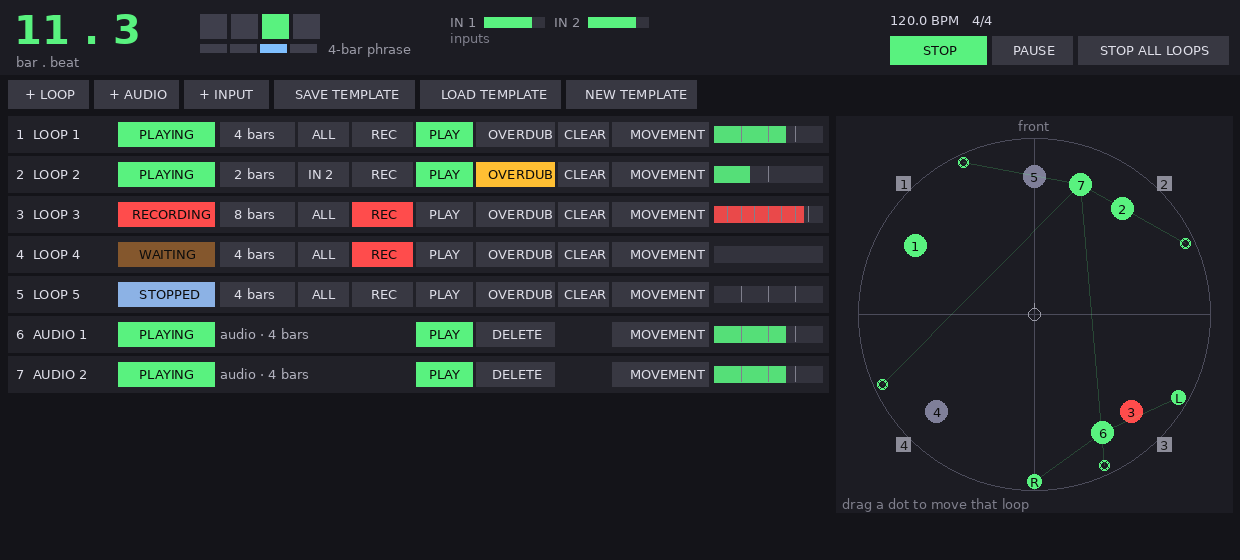
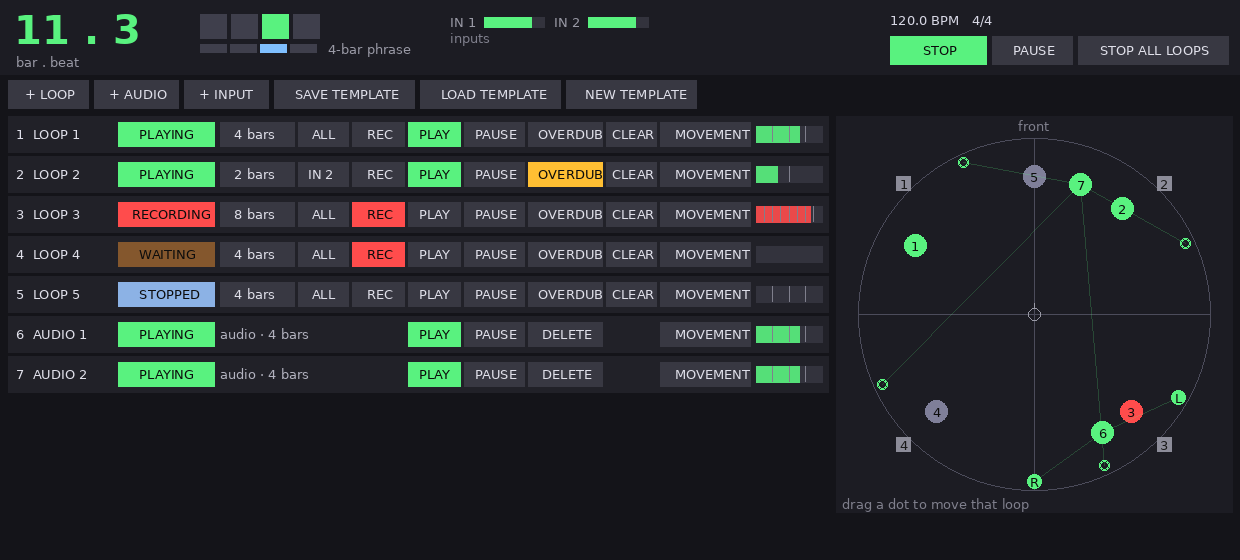
PLAY and PAUSE on every loop and audio row
Looper: new Pause button and PAUSED state. PAUSE silences the loop at
once; releasing it continues on the next bar from the bar of the loop
where it was paused. PLAY (after a stop or a pause) starts the loop from
its beginning on the next bar.

Panel: PAUSE on loop and audio rows. Audio PLAY starts the file from its
beginning on the next bar, PAUSE remembers the position and resumes
from that bar; the read position (take start offset) is only moved
while the track is silent. Master STOP puts every audio file back at
its beginning. Row buttons re-laid out to fit.

Claude-Session: https://claude.ai/code/session_01HZpQ1jnYDfcf75rDd3gwxR

Changed region(s): [[0.2758, 0.3643, 0.6742, 0.5464], [0.2758, 0.2125, 0.6435, 0.3339], [0.3065, 0.5768, 0.6435, 0.6982]]

diff --git a/tests/test_scripts.py b/tests/test_scripts.py
@@ -142,7 +142,7 @@ mouse(dx, dy, 1); frame(); mouse(cx + 100, cy, 1); frame(); mouse(cx + 100, cy, 
 check("panel: dragging loop 1 in the room sets its azimuth (+90 = right)", param(2, 2, "Azimuth") == 90)
 
 # movement editor of loop 1
-click(BX + 256 + 10, row_y(1, n))
+click(BX + 308 + 10, row_y(1, n))
 lw = W - room - 24
 colw = (lw - 40) // 2
 c1, c2 = 8 + 10, 8 + 30 + colw
@@ -204,6 +204,38 @@ click(BX + 70 + 10, row_y(14, n))                # PLAY on the audio row (quanti
 check("audio row: PLAY waits for the next bar", lua.eval("MOCK.T[%d].vals.B_MUTE" % a1) == 1)
 lua.execute("MOCK_POS = MOCK_POS + 2.0"); frame()   # next bar (2 s per bar at 120 BPM)
 check("audio row: ... and unmutes on the next bar", lua.eval("MOCK.T[%d].vals.B_MUTE" % a1) == 0)
+# loop PAUSE button
+click(BX + 112 + 10, row_y(1, n))
+check("loop row: PAUSE presses the looper's Pause", param(tr_index("LOOP 1"), 1, "Pause") == 1)
+click(BX + 112 + 10, row_y(1, n))
+check("loop row: PAUSE again releases it (the loop continues on the next bar)", param(tr_index("LOOP 1"), 1, "Pause") == 0)
+# audio PAUSE / RESUME (AUDIO 1: 4 bars = 8 s at 120 BPM, playing)
+lua.execute("E4LT = dofile([[%s]])" % os.path.join(SCRIPTS, "e4l_lib.lua").replace("\\", "/"))
+apos = lua.eval("function(i, t) return E4LT.audio_pos(MOCK.T[i], t) end")
+lua.execute("MOCK_POS = 15.0"); frame()          # the file started at 12 s (PLAY above): 3.0 s in
+click(BX + 112 + 10, row_y(14, n))                # PAUSE there (its bar 2)
+check("audio row: PAUSE silences it at once and remembers where it was",
+      lua.eval("MOCK.T[%d].vals.B_MUTE" % a1) == 1 and abs(float(lua.eval("MOCK.T[%d].ext['P_EXT:E4L_pause']" % a1)) - 3.0) < 1e-6)
+lua.execute("MOCK_POS = 15.5"); frame()
+click(BX + 112 + 10, row_y(14, n))                # PAUSE again: continue on the next bar (16 s)
+check("audio row: PAUSE again -> on the next bar (16 s) the file continues from its bar 2 (2.0 s)",
+      abs(apos(a1, 16.0) - 2.0) < 1e-6 and lua.eval("MOCK.T[%d].vals.B_MUTE" % a1) == 1)
+lua.execute("MOCK_POS = 16.1"); frame()
+check("audio row: ... it comes back in on that bar", lua.eval("MOCK.T[%d].vals.B_MUTE" % a1) == 0
+      and lua.eval("MOCK.T[%d].ext['P_EXT:E4L_pause']" % a1) == "")
+# audio PLAY: stop on the next bar, then PLAY again starts the file from its beginning
+click(BX + 56 + 10, row_y(14, n))
+lua.execute("MOCK_POS = 18.1"); frame()
+lua.execute("MOCK_POS = 19.0"); frame()
+click(BX + 56 + 10, row_y(14, n))
+check("audio row: PLAY after a stop starts the file from its beginning on the next bar (20 s)",
+      lua.eval("MOCK.T[%d].vals.B_MUTE" % a1) == 1 and abs(apos(a1, 20.0)) < 1e-6)
+lua.execute("MOCK_POS = 20.1"); frame()
+check("audio row: ... and comes in on that bar", lua.eval("MOCK.T[%d].vals.B_MUTE" % a1) == 0)
+lua.execute("MOCK_KEY = 32"); frame()
+check("master STOP: back to bar 1 with every audio file at its beginning",
+      lua.eval("MOCK_PLAY") == 0 and abs(apos(a1, 0.0)) < 1e-6)
+lua.execute("MOCK_KEY = 32"); frame()
 check("+ AUDIO builds the item directly (no InsertMedia, which can stop the transport)",
       lua.eval("MOCK_INSERTMEDIA_USED") is False and lua.eval("MOCK.T[%d].items[1].file" % a1) == "/sounds/pad.wav")
 # something stops the transport while the file dialog is open -> the panel restarts it
@@ -252,9 +284,9 @@ check("8-channel file -> Multi-Panner, 8 inputs in a circle, the others off",
 rows = [x for x in name_list() if x.startswith("LOOP ") or x.startswith("AUDIO ")]
 nrows = len(rows)
 i5 = rows.index("AUDIO 5") + 1
-click(BX + 124 + 10, row_y(i5, nrows))
+click(BX + 176 + 10, row_y(i5, nrows))
 check("audio row: first click on DELETE only asks (SURE?)", "AUDIO 5" in name_list())
-click(BX + 124 + 10, row_y(i5, nrows))
+click(BX + 176 + 10, row_y(i5, nrows))
 check("audio row: second click on DELETE deletes the track",
       "AUDIO 5" not in name_list() and "AUDIO 4" in name_list() and "AUDIO 6" in name_list())
 frame()

diff --git a/docs/build_guide.py b/docs/build_guide.py
@@ -634,9 +634,9 @@ def build(path):
         "continues exactly where it was.",
         "<b>Toolbar:</b> <b>+ LOOP</b>, <b>+ AUDIO</b>, <b>+ INPUT</b>, <b>SAVE TEMPLATE</b>, "
         "<b>LOAD TEMPLATE</b>, <b>NEW TEMPLATE</b> (see below).",
-        "<b>One row per loop:</b> state (EMPTY, WAITING, RECORDING, PLAYING, STOPPED; it blinks while "
-        "waiting for the bar), length, input (<b>ALL</b> or <b>IN n</b>), <b>REC</b>, <b>PLAY</b>, "
-        "<b>OVERDUB</b>, <b>CLEAR</b>, <b>MOVEMENT</b> and the position inside the loop.",
+        "<b>One row per loop:</b> state (EMPTY, WAITING, RECORDING, PLAYING, STOPPED, PAUSED; it blinks "
+        "while waiting for the bar), length, input (<b>ALL</b> or <b>IN n</b>), <b>REC</b>, <b>PLAY</b>, "
+        "<b>PAUSE</b>, <b>OVERDUB</b>, <b>CLEAR</b>, <b>MOVEMENT</b> and the position inside the loop.",
         "<b>The room seen from above:</b> the 4 numbered speakers and one dot per loop (green "
         "playing, red recording), moving live with the animations. <b>Drag a dot</b> to move that loop.",
         "<b>Keys:</b> <b>Space</b> = play/stop · <b>1-9</b> = record on loop 1-9 · <b>0</b> = stop all "
@@ -647,7 +647,9 @@ def build(path):
         ["Loop button", "What it does"],
         ["<b>REC</b>", "Records on the next bar. On a loop that already has audio it records a new "
          "one; the old one keeps playing until the new recording starts."],
-        ["<b>PLAY</b>", "Starts or stops the loop on the next bar, always in phase with the project."],
+        ["<b>PLAY</b>", "Starts the loop from its beginning on the next bar, or stops it on the next bar."],
+        ["<b>PAUSE</b>", "Silences the loop at once. Press it again: the loop continues on the next bar, "
+                         "from the bar where it was paused. PLAY while paused starts it from the beginning."],
         ["<b>OVERDUB</b>", "While on, what you play is added on top of the loop."],
         ["<b>CLEAR</b>", "Erases the loop."],
         ["<b>ALL / IN n</b>", "Which interface input the loop records: <b>ALL</b> (every input, the "
@@ -659,7 +661,9 @@ def build(path):
         "<b>+ AUDIO</b>: choose a file (wav, aif, mp3…). A new <b>AUDIO n</b> track is created, "
         "spatialised like a loop. The file starts at bar 1 and repeats; if it lasts almost a whole "
         "number of bars it is fitted to the tempo without changing its pitch. It starts "
-        "<b>MUTED</b>: press <b>PLAY</b> and it comes in on the next bar (same to take it out). It "
+        "<b>STOPPED</b>: press <b>PLAY</b> and it comes in from its beginning on the next bar (same to take it "
+        "out). <b>PAUSE</b> works as on the loops: silent at once, then it continues from the bar where it "
+        "was paused. It "
         "has its own <b>MOVEMENT</b> button. You can also drag files from the Finder onto the panel.",
         "The effect follows the channels of the file: <b>mono</b> = one point; <b>stereo</b> = two "
         "points, L and R on speakers 1 and 2; <b>quad</b> = four points, each channel on its own "

diff --git a/tests/test_e4l.py b/tests/test_e4l.py
@@ -193,6 +193,25 @@ check("looper: after STOP, PLAY (here from bar 2) starts the loop from its begin
 o = run(LP, ramp, *EXACT, "s1=1", "s2=1", "ps@300032=2", "ps@340000=1")
 check("looper: after PAUSE, PLAY continues where it was",
       np.allclose(o[343000:380000, 0], ramp[111000:148000, 0], atol=1e-4))
+# per-loop PAUSE (2-bar loop playing from bar 3 = sample 192000): paused at 250000 (inside
+# loop bar 1), PAUSE off at 300000 -> continues at the next bar (384000) from loop bar 1
+o = run(LP, ramp, *EXACT, "s1=1", "s2=1", "s16@250112=1", "s16@300032=0")
+check("looper: PAUSE silences the loop at once",
+      np.abs(o[250500:384000]).max() == 0)
+check("looper: PAUSE off continues on the next bar from the bar where it was paused",
+      np.allclose(o[384000 + 1000:384000 + 90000, 0], ramp[1000:90000, 0]))
+ramp14 = np.stack([np.arange(14 * SR) * 1e-6, -np.arange(14 * SR) * 1e-6], 1)
+o = run(LP, ramp14, *EXACT, "s1=1", "s2=1", "s16@300032=1", "s16@400128=0")
+check("looper: paused in loop bar 2 -> continues from loop bar 2",
+      np.allclose(o[480000 + 1000:480000 + 90000, 0], ramp14[96000 + 1000:96000 + 90000, 0]))
+o = run(LP, ramp14, *EXACT, "s1=1", "s2=1", "s16@300032=1", "s3@400128=1")
+check("looper: PLAY while paused starts the loop from its beginning on the next bar",
+      np.allclose(o[480000 + 1000:480000 + 90000, 0], ramp14[1000:90000, 0]))
+# 2-bar loop recorded in bars 2-3, playing from bar 4; its STOP at bar 5, PLAY again at bar 6:
+# in phase it would play its 2nd bar there, from the beginning it plays its 1st
+o = run(LP, ramp14, *EXACT, "s1=1", "s2@30000=1", "s3@300032=0", "s3@400128=1")
+check("looper: PLAY after its STOP starts it from its beginning",
+      np.allclose(o[480000 + 1000:480000 + 90000, 0], ramp14[96000 + 1000:96000 + 90000, 0]))
 o = run(LP, ramp, *EXACT, "s1=0", "s2=1", "s4@192000=1", "s4@288000=0")
 check("looper: overdub adds a layer", np.allclose(o[288000 + j, 0], ramp[j, 0] + ramp[192000 + j, 0], atol=1e-5))
 o = run(LP, ramp, *EXACT, "s1=0", "s2=1", "s2@200000=1")

diff --git a/tools/render_panel_preview.py b/tools/render_panel_preview.py
@@ -31,7 +31,7 @@ q.fx[1].p["-Current Azimuth"] = 20; q.fx[1].p["-Current Spread"] = 90
 """ % os.path.join(ROOT, "Scripts", "E4L", "e4l_lib.lua"))
 lua.execute('''
 local T = MOCK.T
-local ST, BARS, LQN = "-Status (0 empty 1 armed 2 rec 3 play 4 stop)", "-Loop Bars", "-Loop Length (QN)"
+local ST, BARS, LQN = "-Status (0 empty 1 armed 2 rec 3 play 4 stop 5 pause)", "-Loop Bars", "-Loop Length (QN)"
 local function L(i) return T[i+2].fx[1].p end
 local function P(i) return T[i+2].fx[2].p end
 L(1)[ST]=3; L(1)[BARS]=4; L(1)[LQN]=16; L(1)["Play"]=1; L(1)["Length (bars)"]=2
@@ -90,7 +90,7 @@ def render(out_name):
 
 render("live_panel_preview.png")
 # open the movement editor of loop 1 (click on its MOVIMIENTO button)
-lua.execute("gfx.mouse_x = 8 + 344 + 266; gfx.mouse_y = 116 + 15; gfx.mouse_cap = 1")
+lua.execute("gfx.mouse_x = 8 + 344 + 320; gfx.mouse_y = 116 + 15; gfx.mouse_cap = 1")
 lua.execute("local f = MOCK_DEFER; MOCK_DEFER = nil; f()")
 lua.execute("gfx.mouse_cap = 0")
 render("live_panel_editor.png")

diff --git a/README.md b/README.md
@@ -176,10 +176,13 @@ opening any plug-in.
     positions, movements, tempo) in `E4L_Templates` inside the resource folder, to move from one
     piece to the next.
   - **NEW TEMPLATE** – a new live project from scratch.
-- **One row per loop:** state (empty, waiting, recording, playing, stopped), length (1-32 bars),
-  input (**ALL** / **IN n**), **REC**, **PLAY**, **OVERDUB**, **CLEAR**, **MOVEMENT** (movement
-  editor) and the position inside the loop. Record, play and stop are
-  quantised to the next bar.
+- **One row per loop:** state (empty, waiting, recording, playing, stopped, paused), length
+  (1-32 bars), input (**ALL** / **IN n**), **REC**, **PLAY**, **PAUSE**, **OVERDUB**, **CLEAR**,
+  **MOVEMENT** (movement editor) and the position inside the loop. Record, play and stop are
+  quantised to the next bar. **PLAY** starts the loop from its beginning; **PAUSE** silences it at
+  once and, pressed again, continues it on the next bar from the bar where it was paused.
+  Audio rows have the same **PLAY** / **PAUSE** (the file is moved only while it is silent) and
+  **DELETE**. The movement (LFOs) freezes while REAPER is paused and continues from there.
 - **Room view**, seen from above: the four speakers and one dot per loop, moving live with its
   animations. Drag a dot to move that loop.
 - **Keys:** space = play/stop, 1-9 = record on loop 1-9, 0 = stop all loops, Esc = close the editor.
